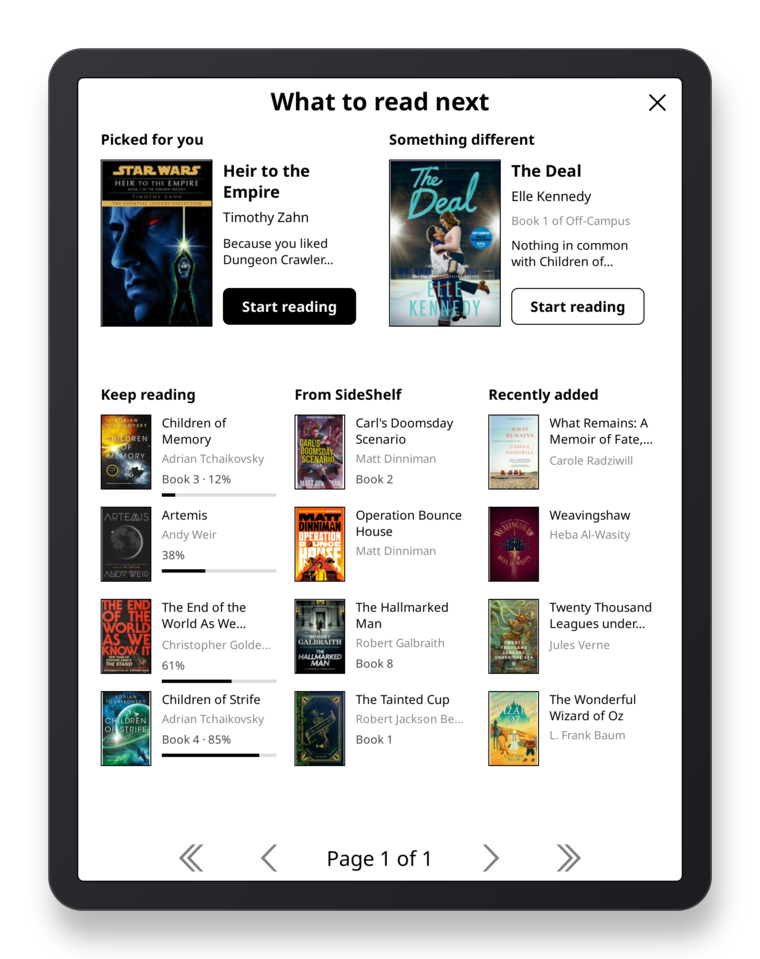
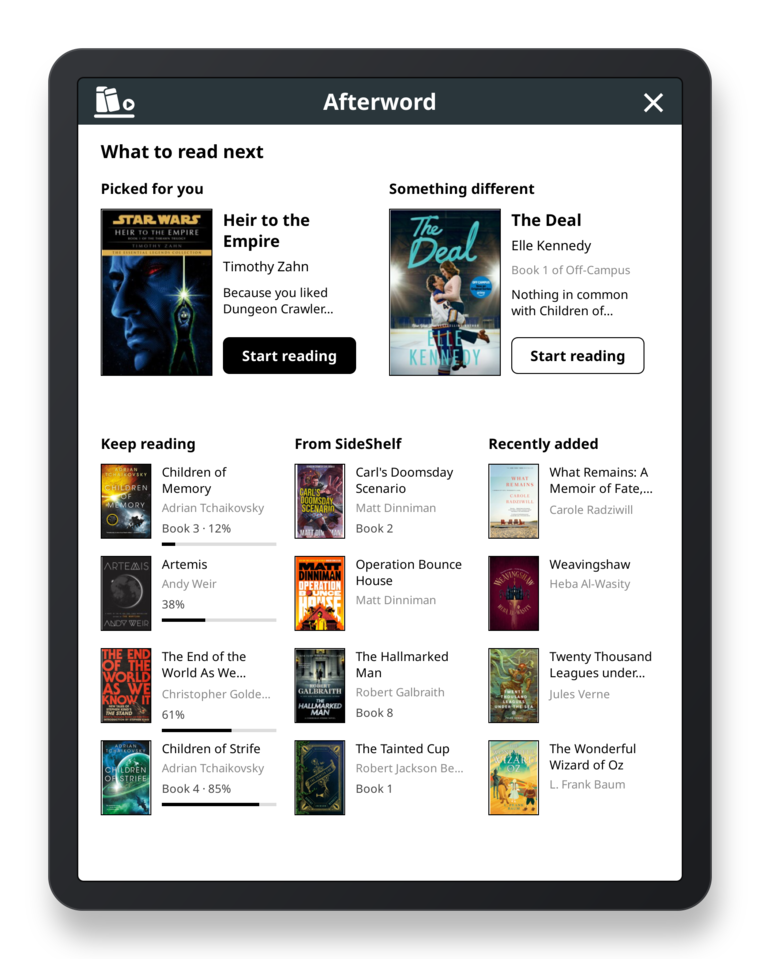
feat: an Afterword header on the list, page arrows only when needed (#11)
* feat: an Afterword header on the list, the screen's name as a heading, page arrows only when needed

* docs: refresh the list screenshots with the new header

diff --git a/CLAUDE.md b/CLAUDE.md
@@ -29,4 +29,4 @@ A KOReader plugin in Lua. `tests/run.sh` runs the tests under plain `luajit`.
 
 ## The list
 
-The Pick next list is drawn by `afterword/picklist.lua`: KOReader's own `Menu` (title bar, page arrows, paging) with its own rows: the two single picks side by side, then the other groups as columns of small-cover rows, three to a row. The picks' covers take whatever height the lists leave, so the same layout fits portrait and landscape. `PickMenu:setupItemHeights` sizes the rows and decides which fit on a page, so the paging stays KOReader's. Tapping a cover or a Start button opens the book. The list has no unit tests, because it is made of KOReader widgets: look at them in the emulator, at a short screen too so the list pages, and seed it with `tools/seed-emulator.py` so there is a taste to show. What goes in them (the groups, their order, why a book was picked) is `suggest.lua` and `taste.lua`, which are tested.
+The Pick next list is drawn by `afterword/picklist.lua`: KOReader's own `Menu` (paging; the page arrows show only when a second page is needed) under Afterword's own header (`afterword/header.lua`: the mark, the name, close) with its own rows: the two single picks side by side, then the other groups as columns of small-cover rows, three to a row. The picks' covers take whatever height the lists leave, so the same layout fits portrait and landscape. `PickMenu:setupItemHeights` sizes the rows and decides which fit on a page, so the paging stays KOReader's. Tapping a cover or a Start button opens the book. The list has no unit tests, because it is made of KOReader widgets: look at them in the emulator, at a short screen too so the list pages, and seed it with `tools/seed-emulator.py` so there is a taste to show. What goes in them (the groups, their order, why a book was picked) is `suggest.lua` and `taste.lua`, which are tested.
